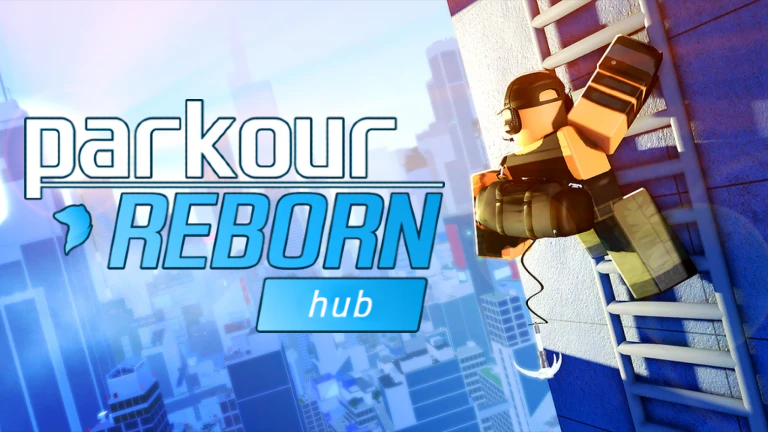
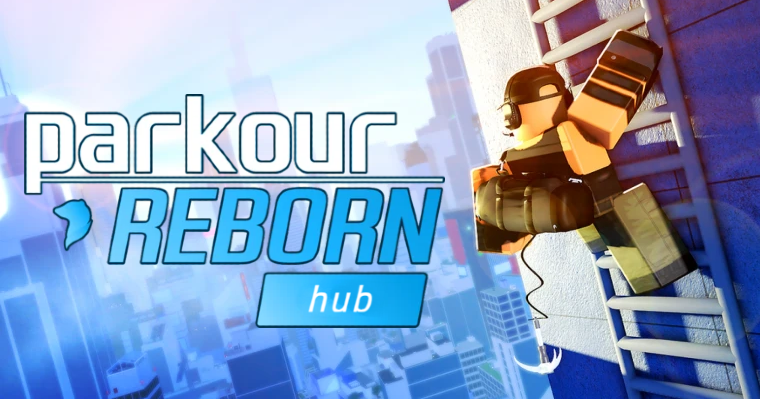
Last embed change (had to change the fucking image)

diff --git a/app/layout.tsx b/app/layout.tsx
@@ -16,7 +16,7 @@ export const metadata: Metadata = {
     siteName: 'PARKOUR Reborn',
     title: siteTitle,
     description: siteDescription,
-    images: [{ url: '/embed.png', width: 768, height: 432, alt: 'PARKOUR Reborn' }],
+    images: [{ url: '/embed.png', width: 1200, height: 630, alt: 'PARKOUR Reborn' }],
   },
   twitter: {
     card: 'summary_large_image',
